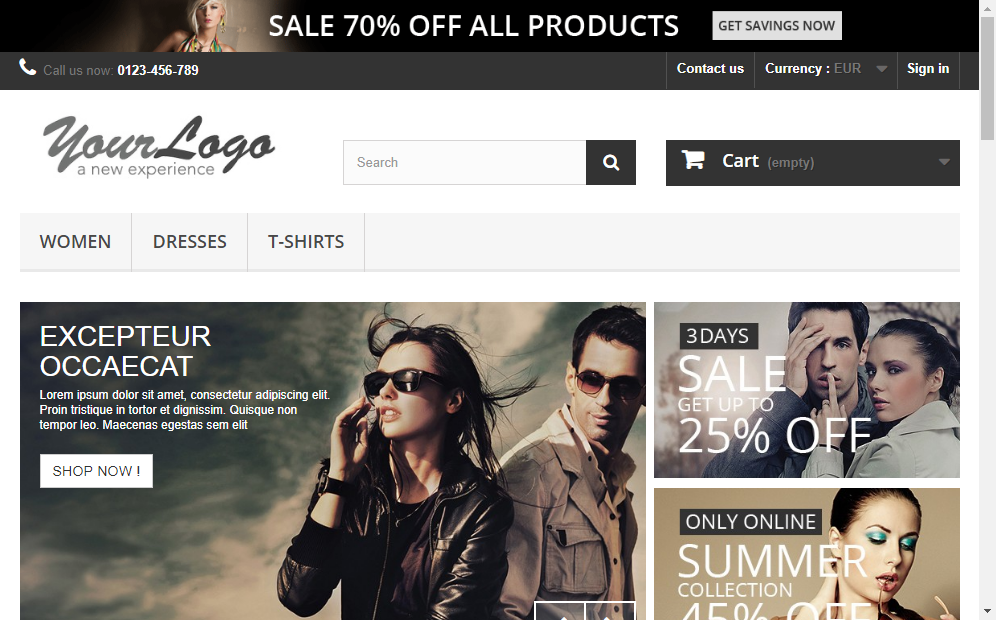
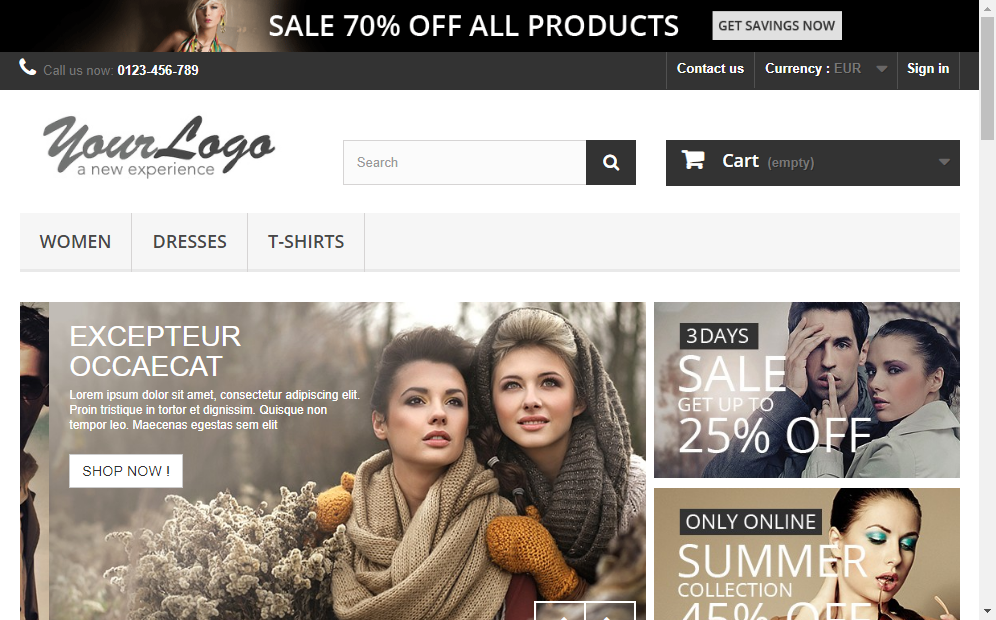
Add failed test screenshots from https://travis-ci.org/wirecard/prestashop-ee/builds/536724530

Changed region(s): [[0.0, 0.4597, 0.6536, 1.0]]

diff --git a/prestashop-ee-1.6.1.24/API-WDCEE-TEST/2019-05-24/checkCreditCard3DSFunctionalityHappyPath.try.purchaseCheck.ui_test.fail.html b/prestashop-ee-1.6.1.24/API-WDCEE-TEST/2019-05-24/checkCreditCard3DSFunctionalityHappyPath.try.purchaseCheck.ui_test.fail.html
@@ -37,7 +37,7 @@
 																<link rel="stylesheet" href="/themes/default-bootstrap/css/modules/homeslider/homeslider.css" type="text/css" media="all">
 																<link rel="stylesheet" href="/themes/default-bootstrap/css/modules/homefeatured/homefeatured.css" type="text/css" media="all">
 																<link rel="stylesheet" href="/modules/themeconfigurator/css/hooks.css" type="text/css" media="all">
-														<script src="https://connect.facebook.net/en_US/all.js?hash=3c01356c770e49712d2cdfbfd95d3972&amp;ua=modern_es6" async="" crossorigin="anonymous"></script><script id="facebook-jssdk" src="//connect.facebook.net/en_US/all.js#xfbml=1&amp;appId=334341610034299"></script><script type="text/javascript">
+														<script src="https://connect.facebook.net/en_US/all.js?hash=fb3c721495e39f9d02d91895cddee1ae&amp;ua=modern_es6" async="" crossorigin="anonymous"></script><script id="facebook-jssdk" src="//connect.facebook.net/en_US/all.js#xfbml=1&amp;appId=334341610034299"></script><script type="text/javascript">
 var CUSTOMIZE_TEXTFIELD = 1;
 var FancyboxI18nClose = 'Close';
 var FancyboxI18nNext = 'Next';
@@ -47,6 +47,8 @@ var ajaxsearch = true;
 var baseDir = 'http://localhost:8080/';
 var baseUri = 'http://localhost:8080/index.php';
 var blocksearch_type = 'top';
+var comparator_max_item = 3;
+var comparedProductsIds = [];
 var contentOnly = false;
 var currency = {"id":1,"name":"Euro","iso_code":"EUR","iso_code_num":"978","sign":"\u20ac","blank":"1","conversion_rate":"1.000000","deleted":"0","format":"2","decimals":"1","active":"1","prefix":"","suffix":" \u20ac","id_shop_list":null,"force_id":false};
 var currencyBlank = 1;
@@ -58,7 +60,7 @@ var delete_txt = 'Delete';
 var displayList = false;
 var freeProductTranslation = 'Free!';
 var freeShippingTranslation = 'Free shipping!';
-var generated_date = 1558693945;
+var generated_date = 1558696837;
 var hasDeliveryAddress = false;
 var highDPI = false;
 var homeslider_loop = 1;
@@ -71,6 +73,8 @@ var instantsearch = false;
 var isGuest = 0;
 var isLogged = 0;
 var isMobile = false;
+var max_item = 'You cannot add more than 3 product(s) to the product comparison';
+var min_item = 'Please select at least one product';
 var page_name = 'index';
 var placeholder_blocknewsletter = 'Enter your e-mail';
 var priceDisplayMethod = 0;
@@ -79,9 +83,9 @@ var quickView = true;
 var removingLinkText = 'remove this product from my cart';
 var roundMode = 2;
 var search_url = 'http://localhost:8080/index.php?controller=search';
-var static_token = '1ebb8cdd95dc4ea71ddeeb2e1645fd23';
+var static_token = '63e7f963977e4518e2ff28f13fdd50a6';
 var toBeDetermined = 'To be determined';
-var token = 'be7e6e960042cebf35e28db2ea781fc0';
+var token = '99f01f2d5d3fd2e3ee4290e122383037';
 var usingSecureMode = false;
 </script>
 
@@ -338,7 +342,7 @@ var usingSecureMode = false;
 										<div id="slider_row" class="row">
 																			<div id="top_column" class="center_column col-xs-12 col-sm-12"><!-- Module HomeSlider -->
     		<div id="homepage-slider" class="col-xs-8">
-						<div class="bx-wrapper" style="max-width: 779px; margin: 0px auto;"><div class="bx-viewport" style="width: 100%; overflow: hidden; position: relative; height: 361px;"><ul id="homeslider" style="max-height: 448px; width: 515%; position: relative; left: -936.146px;"><li class="homeslider-container bx-clone" style="float: left; list-style: none; position: relative; width: 627px;">
+						<div class="bx-wrapper" style="max-width: 779px; margin: 0px auto;"><div class="bx-viewport" style="width: 100%; overflow: hidden; position: relative; height: 361px;"><ul id="homeslider" style="max-height: 448px; width: 515%; position: relative; left: -1254px;"><li class="homeslider-container bx-clone" style="float: left; list-style: none; position: relative; width: 627px;">
 							<a href="http://www.prestashop.com/?utm_source=back-office&amp;utm_medium=v16_homeslider&amp;utm_campaign=back-office-EN&amp;utm_content=download" title="sample-3">
 								<img src="http://localhost:8080/modules/homeslider/images/sample-3.jpg" width="779" height="448" alt="sample-3">
 							</a>
@@ -472,7 +476,7 @@ var usingSecureMode = false;
 							
 											</div>
 										<div class="button-container">
-																													<a class="button ajax_add_to_cart_button btn btn-default" href="http://localhost:8080/index.php?controller=cart&amp;add=1&amp;id_product=7&amp;ipa=34&amp;token=1ebb8cdd95dc4ea71ddeeb2e1645fd23" rel="nofollow" title="Add to cart" data-id-product-attribute="34" data-id-product="7" data-minimal_quantity="1">
+																													<a class="button ajax_add_to_cart_button btn btn-default" href="http://localhost:8080/index.php?controller=cart&amp;add=1&amp;id_product=7&amp;ipa=34&amp;token=63e7f963977e4518e2ff28f13fdd50a6" rel="nofollow" title="Add to cart" data-id-product-attribute="34" data-id-product="7" data-minimal_quantity="1">
 									<span>Add to cart</span>
 								</a>
 																			<a class="button lnk_view btn btn-default" href="http://localhost:8080/index.php?id_product=7&amp;controller=product" title="View">
@@ -541,7 +545,7 @@ var usingSecureMode = false;
 							
 											</div>
 										<div class="button-container">
-																													<a class="button ajax_add_to_cart_button btn btn-default" href="http://localhost:8080/index.php?controller=cart&amp;add=1&amp;id_product=6&amp;ipa=31&amp;token=1ebb8cdd95dc4ea71ddeeb2e1645fd23" rel="nofollow" title="Add to cart" data-id-product-attribute="31" data-id-product="6" data-minimal_quantity="1">
+																													<a class="button ajax_add_to_cart_button btn btn-default" href="http://localhost:8080/index.php?controller=cart&amp;add=1&amp;id_product=6&amp;ipa=31&amp;token=63e7f963977e4518e2ff28f13fdd50a6" rel="nofollow" title="Add to cart" data-id-product-attribute="31" data-id-product="6" data-minimal_quantity="1">
 									<span>Add to cart</span>
 								</a>
 																			<a class="button lnk_view btn btn-default" href="http://localhost:8080/index.php?id_product=6&amp;controller=product" title="View">
@@ -620,7 +624,7 @@ var usingSecureMode = false;
 							
 											</div>
 										<div class="button-container">
-																													<a class="button ajax_add_to_cart_button btn btn-default" href="http://localhost:8080/index.php?controller=cart&amp;add=1&amp;id_product=5&amp;ipa=19&amp;token=1ebb8cdd95dc4ea71ddeeb2e1645fd23" rel="nofollow" title="Add to cart" data-id-product-attribute="19" data-id-product="5" data-minimal_quantity="1">
+																													<a class="button ajax_add_to_cart_button btn btn-default" href="http://localhost:8080/index.php?controller=cart&amp;add=1&amp;id_product=5&amp;ipa=19&amp;token=63e7f963977e4518e2ff28f13fdd50a6" rel="nofollow" title="Add to cart" data-id-product-attribute="19" data-id-product="5" data-minimal_quantity="1">
 									<span>Add to cart</span>
 								</a>
 																			<a class="button lnk_view btn btn-default" href="http://localhost:8080/index.php?id_product=5&amp;controller=product" title="View">
@@ -689,7 +693,7 @@ var usingSecureMode = false;
 							
 											</div>
 										<div class="button-container">
-																													<a class="button ajax_add_to_cart_button btn btn-default" href="http://localhost:8080/index.php?controller=cart&amp;add=1&amp;id_product=4&amp;ipa=16&amp;token=1ebb8cdd95dc4ea71ddeeb2e1645fd23" rel="nofollow" title="Add to cart" data-id-product-attribute="16" data-id-product="4" data-minimal_quantity="1">
+																													<a class="button ajax_add_to_cart_button btn btn-default" href="http://localhost:8080/index.php?controller=cart&amp;add=1&amp;id_product=4&amp;ipa=16&amp;token=63e7f963977e4518e2ff28f13fdd50a6" rel="nofollow" title="Add to cart" data-id-product-attribute="16" data-id-product="4" data-minimal_quantity="1">
 									<span>Add to cart</span>
 								</a>
 																			<a class="button lnk_view btn btn-default" href="http://localhost:8080/index.php?id_product=4&amp;controller=product" title="View">
@@ -757,7 +761,7 @@ var usingSecureMode = false;
 							
 											</div>
 										<div class="button-container">
-																													<a class="button ajax_add_to_cart_button btn btn-default" href="http://localhost:8080/index.php?controller=cart&amp;add=1&amp;id_product=3&amp;ipa=13&amp;token=1ebb8cdd95dc4ea71ddeeb2e1645fd23" rel="nofollow" title="Add to cart" data-id-product-attribute="13" data-id-product="3" data-minimal_quantity="1">
+																													<a class="button ajax_add_to_cart_button btn btn-default" href="http://localhost:8080/index.php?controller=cart&amp;add=1&amp;id_product=3&amp;ipa=13&amp;token=63e7f963977e4518e2ff28f13fdd50a6" rel="nofollow" title="Add to cart" data-id-product-attribute="13" data-id-product="3" data-minimal_quantity="1">
 									<span>Add to cart</span>
 								</a>
 																			<a class="button lnk_view btn btn-default" href="http://localhost:8080/index.php?id_product=3&amp;controller=product" title="View">
@@ -825,7 +829,7 @@ var usingSecureMode = false;
 							
 											</div>
 										<div class="button-container">
-																													<a class="button ajax_add_to_cart_button btn btn-default" href="http://localhost:8080/index.php?controller=cart&amp;add=1&amp;id_product=2&amp;ipa=7&amp;token=1ebb8cdd95dc4ea71ddeeb2e1645fd23" rel="nofollow" title="Add to cart" data-id-product-attribute="7" data-id-product="2" data-minimal_quantity="1">
+																													<a class="button ajax_add_to_cart_button btn btn-default" href="http://localhost:8080/index.php?controller=cart&amp;add=1&amp;id_product=2&amp;ipa=7&amp;token=63e7f963977e4518e2ff28f13fdd50a6" rel="nofollow" title="Add to cart" data-id-product-attribute="7" data-id-product="2" data-minimal_quantity="1">
 									<span>Add to cart</span>
 								</a>
 																			<a class="button lnk_view btn btn-default" href="http://localhost:8080/index.php?id_product=2&amp;controller=product" title="View">
@@ -893,7 +897,7 @@ var usingSecureMode = false;
 							
 											</div>
 										<div class="button-container">
-																													<a class="button ajax_add_to_cart_button btn btn-default" href="http://localhost:8080/index.php?controller=cart&amp;add=1&amp;id_product=1&amp;ipa=1&amp;token=1ebb8cdd95dc4ea71ddeeb2e1645fd23" rel="nofollow" title="Add to cart" data-id-product-attribute="1" data-id-product="1" data-minimal_quantity="1">
+																													<a class="button ajax_add_to_cart_button btn btn-default" href="http://localhost:8080/index.php?controller=cart&amp;add=1&amp;id_product=1&amp;ipa=1&amp;token=63e7f963977e4518e2ff28f13fdd50a6" rel="nofollow" title="Add to cart" data-id-product-attribute="1" data-id-product="1" data-minimal_quantity="1">
 									<span>Add to cart</span>
 								</a>
 																			<a class="button lnk_view btn btn-default" href="http://localhost:8080/index.php?id_product=1&amp;controller=product" title="View">
@@ -973,7 +977,7 @@ var usingSecureMode = false;
 							
 											</div>
 										<div class="button-container">
-																													<a class="button ajax_add_to_cart_button btn btn-default" href="http://localhost:8080/index.php?controller=cart&amp;add=1&amp;id_product=1&amp;ipa=1&amp;token=1ebb8cdd95dc4ea71ddeeb2e1645fd23" rel="nofollow" title="Add to cart" data-id-product-attribute="1" data-id-product="1" data-minimal_quantity="1">
+																													<a class="button ajax_add_to_cart_button btn btn-default" href="http://localhost:8080/index.php?controller=cart&amp;add=1&amp;id_product=1&amp;ipa=1&amp;token=63e7f963977e4518e2ff28f13fdd50a6" rel="nofollow" title="Add to cart" data-id-product-attribute="1" data-id-product="1" data-minimal_quantity="1">
 									<span>Add to cart</span>
 								</a>
 																			<a class="button lnk_view btn btn-default" href="http://localhost:8080/index.php?id_product=1&amp;controller=product" title="View">
@@ -1041,7 +1045,7 @@ var usingSecureMode = false;
 							
 											</div>
 										<div class="button-container">
-																													<a class="button ajax_add_to_cart_button btn btn-default" href="http://localhost:8080/index.php?controller=cart&amp;add=1&amp;id_product=2&amp;ipa=7&amp;token=1ebb8cdd95dc4ea71ddeeb2e1645fd23" rel="nofollow" title="Add to cart" data-id-product-attribute="7" data-id-product="2" data-minimal_quantity="1">
+																													<a class="button ajax_add_to_cart_button btn btn-default" href="http://localhost:8080/index.php?controller=cart&amp;add=1&amp;id_product=2&amp;ipa=7&amp;token=63e7f963977e4518e2ff28f13fdd50a6" rel="nofollow" title="Add to cart" data-id-product-attribute="7" data-id-product="2" data-minimal_quantity="1">
 									<span>Add to cart</span>
 								</a>
 																			<a class="button lnk_view btn btn-default" href="http://localhost:8080/index.php?id_product=2&amp;controller=product" title="View">
@@ -1109,7 +1113,7 @@ var usingSecureMode = false;
 							
 											</div>
 										<div class="button-container">
-																													<a class="button ajax_add_to_cart_button btn btn-default" href="http://localhost:8080/index.php?controller=cart&amp;add=1&amp;id_product=3&amp;ipa=13&amp;token=1ebb8cdd95dc4ea71ddeeb2e1645fd23" rel="nofollow" title="Add to cart" data-id-product-attribute="13" data-id-product="3" data-minimal_quantity="1">
+																													<a class="button ajax_add_to_cart_button btn btn-default" href="http://localhost:8080/index.php?controller=cart&amp;add=1&amp;id_product=3&amp;ipa=13&amp;token=63e7f963977e4518e2ff28f13fdd50a6" rel="nofollow" title="Add to cart" data-id-product-attribute="13" data-id-product="3" data-minimal_quantity="1">
 									<span>Add to cart</span>
 								</a>
 																			<a class="button lnk_view btn btn-default" href="http://localhost:8080/index.php?id_product=3&amp;controller=product" title="View">
@@ -1177,7 +1181,7 @@ var usingSecureMode = false;
 							
 											</div>
 										<div class="button-container">
-																													<a class="button ajax_add_to_cart_button btn btn-default" href="http://localhost:8080/index.php?controller=cart&amp;add=1&amp;id_product=4&amp;ipa=16&amp;token=1ebb8cdd95dc4ea71ddeeb2e1645fd23" rel="nofollow" title="Add to cart" data-id-product-attribute="16" data-id-product="4" data-minimal_quantity="1">
+																													<a class="button ajax_add_to_cart_button btn btn-default" href="http://localhost:8080/index.php?controller=cart&amp;add=1&amp;id_product=4&amp;ipa=16&amp;token=63e7f963977e4518e2ff28f13fdd50a6" rel="nofollow" title="Add to cart" data-id-product-attribute="16" data-id-product="4" data-minimal_quantity="1">
 									<span>Add to cart</span>
 								</a>
 																			<a class="button lnk_view btn btn-default" href="http://localhost:8080/index.php?id_product=4&amp;controller=product" title="View">
@@ -1256,7 +1260,7 @@ var usingSecureMode = false;
 							
 											</div>
 										<div class="button-container">
-																													<a class="button ajax_add_to_cart_button btn btn-default" href="http://localhost:8080/index.php?controller=cart&amp;add=1&amp;id_product=5&amp;ipa=19&amp;token=1ebb8cdd95dc4ea71ddeeb2e1645fd23" rel="nofollow" title="Add to cart" data-id-product-attribute="19" data-id-product="5" data-minimal_quantity="1">
+																													<a class="button ajax_add_to_cart_button btn btn-default" href="http://localhost:8080/index.php?controller=cart&amp;add=1&amp;id_product=5&amp;ipa=19&amp;token=63e7f963977e4518e2ff28f13fdd50a6" rel="nofollow" title="Add to cart" data-id-product-attribute="19" data-id-product="5" data-minimal_quantity="1">
 									<span>Add to cart</span>
 								</a>
 																			<a class="button lnk_view btn btn-default" href="http://localhost:8080/index.php?id_product=5&amp;controller=product" title="View">
@@ -1325,7 +1329,7 @@ var usingSecureMode = false;
 							
 											</div>
 										<div class="button-container">
-																													<a class="button ajax_add_to_cart_button btn btn-default" href="http://localhost:8080/index.php?controller=cart&amp;add=1&amp;id_product=6&amp;ipa=31&amp;token=1ebb8cdd95dc4ea71ddeeb2e1645fd23" rel="nofollow" title="Add to cart" data-id-product-attribute="31" data-id-product="6" data-minimal_quantity="1">
+																													<a class="button ajax_add_to_cart_button btn btn-default" href="http://localhost:8080/index.php?controller=cart&amp;add=1&amp;id_product=6&amp;ipa=31&amp;token=63e7f963977e4518e2ff28f13fdd50a6" rel="nofollow" title="Add to cart" data-id-product-attribute="31" data-id-product="6" data-minimal_quantity="1">
 									<span>Add to cart</span>
 								</a>
 																			<a class="button lnk_view btn btn-default" href="http://localhost:8080/index.php?id_product=6&amp;controller=product" title="View">
@@ -1404,7 +1408,7 @@ var usingSecureMode = false;
 							
 											</div>
 										<div class="button-container">
-																													<a class="button ajax_add_to_cart_button btn btn-default" href="http://localhost:8080/index.php?controller=cart&amp;add=1&amp;id_product=7&amp;ipa=34&amp;token=1ebb8cdd95dc4ea71ddeeb2e1645fd23" rel="nofollow" title="Add to cart" data-id-product-attribute="34" data-id-product="7" data-minimal_quantity="1">
+																													<a class="button ajax_add_to_cart_button btn btn-default" href="http://localhost:8080/index.php?controller=cart&amp;add=1&amp;id_product=7&amp;ipa=34&amp;token=63e7f963977e4518e2ff28f13fdd50a6" rel="nofollow" title="Add to cart" data-id-product-attribute="34" data-id-product="7" data-minimal_quantity="1">
 									<span>Add to cart</span>
 								</a>
 																			<a class="button lnk_view btn btn-default" href="http://localhost:8080/index.php?id_product=7&amp;controller=product" title="View">
@@ -1496,7 +1500,7 @@ var usingSecureMode = false;
 							
 											</div>
 										<div class="button-container">
-																													<a class="button ajax_add_to_cart_button btn btn-default" href="http://localhost:8080/index.php?controller=cart&amp;add=1&amp;id_product=5&amp;ipa=19&amp;token=1ebb8cdd95dc4ea71ddeeb2e1645fd23" rel="nofollow" title="Add to cart" data-id-product-attribute="19" data-id-product="5" data-minimal_quantity="1">
+																													<a class="button ajax_add_to_cart_button btn btn-default" href="http://localhost:8080/index.php?controller=cart&amp;add=1&amp;id_product=5&amp;ipa=19&amp;token=63e7f963977e4518e2ff28f13fdd50a6" rel="nofollow" title="Add to cart" data-id-product-attribute="19" data-id-product="5" data-minimal_quantity="1">
 									<span>Add to cart</span>
 								</a>
 																			<a class="button lnk_view btn btn-default" href="http://localhost:8080/index.php?id_product=5&amp;controller=product" title="View">
@@ -1576,7 +1580,7 @@ var usingSecureMode = false;
 							
 											</div>
 										<div class="button-container">
-																													<a class="button ajax_add_to_cart_button btn btn-default" href="http://localhost:8080/index.php?controller=cart&amp;add=1&amp;id_product=7&amp;ipa=34&amp;token=1ebb8cdd95dc4ea71ddeeb2e1645fd23" rel="nofollow" title="Add to cart" data-id-product-attribute="34" data-id-product="7" data-minimal_quantity="1">
+																													<a class="button ajax_add_to_cart_button btn btn-default" href="http://localhost:8080/index.php?controller=cart&amp;add=1&amp;id_product=7&amp;ipa=34&amp;token=63e7f963977e4518e2ff28f13fdd50a6" rel="nofollow" title="Add to cart" data-id-product-attribute="34" data-id-product="7" data-minimal_quantity="1">
 									<span>Add to cart</span>
 								</a>
 																			<a class="button lnk_view btn btn-default" href="http://localhost:8080/index.php?id_product=7&amp;controller=product" title="View">
@@ -1657,7 +1661,7 @@ var usingSecureMode = false;
 							
 											</div>
 										<div class="button-container">
-																													<a class="button ajax_add_to_cart_button btn btn-default" href="http://localhost:8080/index.php?controller=cart&amp;add=1&amp;id_product=2&amp;ipa=7&amp;token=1ebb8cdd95dc4ea71ddeeb2e1645fd23" rel="nofollow" title="Add to cart" data-id-product-attribute="7" data-id-product="2" data-minimal_quantity="1">
+																													<a class="button ajax_add_to_cart_button btn btn-default" href="http://localhost:8080/index.php?controller=cart&amp;add=1&amp;id_product=2&amp;ipa=7&amp;token=63e7f963977e4518e2ff28f13fdd50a6" rel="nofollow" title="Add to cart" data-id-product-attribute="7" data-id-product="2" data-minimal_quantity="1">
 									<span>Add to cart</span>
 								</a>
 																			<a class="button lnk_view btn btn-default" href="http://localhost:8080/index.php?id_product=2&amp;controller=product" title="View">
@@ -1725,7 +1729,7 @@ var usingSecureMode = false;
 							
 											</div>
 										<div class="button-container">
-																													<a class="button ajax_add_to_cart_button btn btn-default" href="http://localhost:8080/index.php?controller=cart&amp;add=1&amp;id_product=1&amp;ipa=1&amp;token=1ebb8cdd95dc4ea71ddeeb2e1645fd23" rel="nofollow" title="Add to cart" data-id-product-attribute="1" data-id-product="1" data-minimal_quantity="1">
+																													<a class="button ajax_add_to_cart_button btn btn-default" href="http://localhost:8080/index.php?controller=cart&amp;add=1&amp;id_product=1&amp;ipa=1&amp;token=63e7f963977e4518e2ff28f13fdd50a6" rel="nofollow" title="Add to cart" data-id-product-attribute="1" data-id-product="1" data-minimal_quantity="1">
 									<span>Add to cart</span>
 								</a>
 																			<a class="button lnk_view btn btn-default" href="http://localhost:8080/index.php?id_product=1&amp;controller=product" title="View">
@@ -1793,7 +1797,7 @@ var usingSecureMode = false;
 							
 											</div>
 										<div class="button-container">
-																													<a class="button ajax_add_to_cart_button btn btn-default" href="http://localhost:8080/index.php?controller=cart&amp;add=1&amp;id_product=3&amp;ipa=13&amp;token=1ebb8cdd95dc4ea71ddeeb2e1645fd23" rel="nofollow" title="Add to cart" data-id-product-attribute="13" data-id-product="3" data-minimal_quantity="1">
+																													<a class="button ajax_add_to_cart_button btn btn-default" href="http://localhost:8080/index.php?controller=cart&amp;add=1&amp;id_product=3&amp;ipa=13&amp;token=63e7f963977e4518e2ff28f13fdd50a6" rel="nofollow" title="Add to cart" data-id-product-attribute="13" data-id-product="3" data-minimal_quantity="1">
 									<span>Add to cart</span>
 								</a>
 																			<a class="button lnk_view btn btn-default" href="http://localhost:8080/index.php?id_product=3&amp;controller=product" title="View">
@@ -1861,7 +1865,7 @@ var usingSecureMode = false;
 							
 											</div>
 										<div class="button-container">
-																													<a class="button ajax_add_to_cart_button btn btn-default" href="http://localhost:8080/index.php?controller=cart&amp;add=1&amp;id_product=6&amp;ipa=31&amp;token=1ebb8cdd95dc4ea71ddeeb2e1645fd23" rel="nofollow" title="Add to cart" data-id-product-attribute="31" data-id-product="6" data-minimal_quantity="1">
+																													<a class="button ajax_add_to_cart_button btn btn-default" href="http://localhost:8080/index.php?controller=cart&amp;add=1&amp;id_product=6&amp;ipa=31&amp;token=63e7f963977e4518e2ff28f13fdd50a6" rel="nofollow" title="Add to cart" data-id-product-attribute="31" data-id-product="6" data-minimal_quantity="1">
 									<span>Add to cart</span>
 								</a>
 																			<a class="button lnk_view btn btn-default" href="http://localhost:8080/index.php?id_product=6&amp;controller=product" title="View">
@@ -1940,7 +1944,7 @@ var usingSecureMode = false;
 							
 											</div>
 										<div class="button-container">
-																													<a class="button ajax_add_to_cart_button btn btn-default" href="http://localhost:8080/index.php?controller=cart&amp;add=1&amp;id_product=7&amp;ipa=34&amp;token=1ebb8cdd95dc4ea71ddeeb2e1645fd23" rel="nofollow" title="Add to cart" data-id-product-attribute="34" data-id-product="7" data-minimal_quantity="1">
+																													<a class="button ajax_add_to_cart_button btn btn-default" href="http://localhost:8080/index.php?controller=cart&amp;add=1&amp;id_product=7&amp;ipa=34&amp;token=63e7f963977e4518e2ff28f13fdd50a6" rel="nofollow" title="Add to cart" data-id-product-attribute="34" data-id-product="7" data-minimal_quantity="1">
 									<span>Add to cart</span>
 								</a>
 																			<a class="button lnk_view btn btn-default" href="http://localhost:8080/index.php?id_product=7&amp;controller=product" title="View">
@@ -2020,7 +2024,7 @@ var usingSecureMode = false;
 							
 											</div>
 										<div class="button-container">
-																													<a class="button ajax_add_to_cart_button btn btn-default" href="http://localhost:8080/index.php?controller=cart&amp;add=1&amp;id_product=5&amp;ipa=19&amp;token=1ebb8cdd95dc4ea71ddeeb2e1645fd23" rel="nofollow" title="Add to cart" data-id-product-attribute="19" data-id-product="5" data-minimal_quantity="1">
+																													<a class="button ajax_add_to_cart_button btn btn-default" href="http://localhost:8080/index.php?controller=cart&amp;add=1&amp;id_product=5&amp;ipa=19&amp;token=63e7f963977e4518e2ff28f13fdd50a6" rel="nofollow" title="Add to cart" data-id-product-attribute="19" data-id-product="5" data-minimal_quantity="1">
 									<span>Add to cart</span>
 								</a>
 																			<a class="button lnk_view btn btn-default" href="http://localhost:8080/index.php?id_product=5&amp;controller=product" title="View">
@@ -2073,11 +2077,11 @@ var usingSecureMode = false;
 									</li>
 			</ul>
 </div>
-<div id="fb-root" class=" fb_reset"><div style="position: absolute; top: -10000px; width: 0px; height: 0px;"><div><iframe name="fec107e8470f38" frameborder="0" allowtransparency="true" allowfullscreen="true" scrolling="no" allow="encrypted-media" src="https://www.facebook.com/connect/ping?client_id=334341610034299&amp;domain=localhost&amp;origin=1&amp;redirect_uri=https%3A%2F%2Fstaticxx.facebook.com%2Fconnect%2Fxd_arbiter.php%3Fversion%3D44%23cb%3Df17cd7ef1db69dc%26domain%3Dlocalhost%26origin%3Dhttp%253A%252F%252Flocalhost%253A8080%252Ff179216e5f55e68%26relation%3Dparent&amp;response_type=token%2Csigned_request&amp;sdk=joey" style="display: none;"></iframe></div><div><iframe name="fb_xdm_frame_https" frameborder="0" allowtransparency="true" allowfullscreen="true" scrolling="no" allow="encrypted-media" id="fb_xdm_frame_https" aria-hidden="true" title="Facebook Cross Domain Communication Frame" tabindex="-1" src="https://staticxx.facebook.com/connect/xd_arbiter.php?version=44#channel=f179216e5f55e68&amp;origin=http%3A%2F%2Flocalhost%3A8080" style="border: none;"></iframe></div></div></div>
+<div id="fb-root" class=" fb_reset"><div style="position: absolute; top: -10000px; width: 0px; height: 0px;"><div><iframe name="f1d065702317a5" frameborder="0" allowtransparency="true" allowfullscreen="true" scrolling="no" allow="encrypted-media" src="https://www.facebook.com/connect/ping?client_id=334341610034299&amp;domain=localhost&amp;origin=1&amp;redirect_uri=https%3A%2F%2Fstaticxx.facebook.com%2Fconnect%2Fxd_arbiter.php%3Fversion%3D44%23cb%3Df2f9d24fa7ff268%26domain%3Dlocalhost%26origin%3Dhttp%253A%252F%252Flocalhost%253A8080%252Ff38282263b4b4b%26relation%3Dparent&amp;response_type=token%2Csigned_request&amp;sdk=joey" style="display: none;"></iframe></div><div><iframe name="fb_xdm_frame_https" frameborder="0" allowtransparency="true" allowfullscreen="true" scrolling="no" allow="encrypted-media" id="fb_xdm_frame_https" aria-hidden="true" title="Facebook Cross Domain Communication Frame" tabindex="-1" src="https://staticxx.facebook.com/connect/xd_arbiter.php?version=44#channel=f38282263b4b4b&amp;origin=http%3A%2F%2Flocalhost%3A8080" style="border: none;"></iframe></div></div></div>
 <div id="facebook_block" class="col-xs-4">
 	<h4>Follow us on Facebook</h4>
 	<div class="facebook-fanbox">
-		<div class="fb-like-box fb_iframe_widget" data-href="https://www.facebook.com/prestashop" data-colorscheme="light" data-show-faces="true" data-header="false" data-stream="false" data-show-border="false" fb-xfbml-state="rendered" fb-iframe-plugin-query="app_id=334341610034299&amp;color_scheme=light&amp;container_width=253&amp;header=false&amp;href=https%3A%2F%2Fwww.facebook.com%2Fprestashop&amp;locale=en_US&amp;sdk=joey&amp;show_border=false&amp;show_faces=true&amp;stream=false"><span style="vertical-align: bottom; width: 0px; height: 0px;"><iframe name="f223ec7fd539e98" width="1000px" height="1000px" frameborder="0" allowtransparency="true" allowfullscreen="true" scrolling="no" allow="encrypted-media" title="fb:like_box Facebook Social Plugin" src="https://www.facebook.com/plugins/like_box.php?app_id=334341610034299&amp;channel=https%3A%2F%2Fstaticxx.facebook.com%2Fconnect%2Fxd_arbiter.php%3Fversion%3D44%23cb%3Df12560116b4e914%26domain%3Dlocalhost%26origin%3Dhttp%253A%252F%252Flocalhost%253A8080%252Ff179216e5f55e68%26relation%3Dparent.parent&amp;color_scheme=light&amp;container_width=253&amp;header=false&amp;href=https%3A%2F%2Fwww.facebook.com%2Fprestashop&amp;locale=en_US&amp;sdk=joey&amp;show_border=false&amp;show_faces=true&amp;stream=false" style="border: none; visibility: visible; width: 0px; height: 0px;" class=""></iframe></span></div>
+		<div class="fb-like-box fb_iframe_widget" data-href="https://www.facebook.com/prestashop" data-colorscheme="light" data-show-faces="true" data-header="false" data-stream="false" data-show-border="false" fb-xfbml-state="rendered" fb-iframe-plugin-query="app_id=334341610034299&amp;color_scheme=light&amp;container_width=253&amp;header=false&amp;href=https%3A%2F%2Fwww.facebook.com%2Fprestashop&amp;locale=en_US&amp;sdk=joey&amp;show_border=false&amp;show_faces=true&amp;stream=false"><span style="vertical-align: bottom; width: 0px; height: 0px;"><iframe name="f25642af549b5ec" width="1000px" height="1000px" frameborder="0" allowtransparency="true" allowfullscreen="true" scrolling="no" allow="encrypted-media" title="fb:like_box Facebook Social Plugin" src="https://www.facebook.com/plugins/like_box.php?app_id=334341610034299&amp;channel=https%3A%2F%2Fstaticxx.facebook.com%2Fconnect%2Fxd_arbiter.php%3Fversion%3D44%23cb%3Df2c6a8e0bb84a4%26domain%3Dlocalhost%26origin%3Dhttp%253A%252F%252Flocalhost%253A8080%252Ff38282263b4b4b%26relation%3Dparent.parent&amp;color_scheme=light&amp;container_width=253&amp;header=false&amp;href=https%3A%2F%2Fwww.facebook.com%2Fprestashop&amp;locale=en_US&amp;sdk=joey&amp;show_border=false&amp;show_faces=true&amp;stream=false" style="border: none; visibility: visible; width: 0px; height: 0px;" class=""></iframe></span></div>
 	</div>
 </div>
 <!-- MODULE Block cmsinfo -->

diff --git a/prestashop-ee-1.6.1.24/API-WDCEE-TEST/2019-05-24/report.html b/prestashop-ee-1.6.1.24/API-WDCEE-TEST/2019-05-24/report.html
@@ -215,7 +215,7 @@
      <li> <a href="#" title="Incomplete" onClick="toggleScenarios('scenarioIncomplete', this.parentElement)"><strong>I</strong> 0</a></li>
    </ul>
  <div class="layout">
- <h1>Codeception Results <small><span style="color: #e74c3c">FAILED</span> (3.5s)</small></h1>
+ <h1>Codeception Results <small><span style="color: #e74c3c">FAILED</span> (6.3s)</small></h1>
 
 
 
@@ -227,7 +227,7 @@
 </tr>   <tr class="scenarioRow scenarioFailed">
     <td>
      <p class="scenarioFailed" onclick="showHide('1', this)"><span class="toggle">+</span>
-          <span class="quiet">CheckCreditCard3DSFunctionalityHappyPath &raquo;</span> try purchaseCheck <span style="color: #34495e; font-size: 70%;">3.52s</span></p>
+          <span class="quiet">CheckCreditCard3DSFunctionalityHappyPath &raquo;</span> try purchaseCheck <span style="color: #34495e; font-size: 70%;">6.32s</span></p>
     </td>
    </tr>
    <tr class="scenarioRow scenarioFailed">
@@ -248,13 +248,13 @@
       </tr>
 
 <tr>
- <td class="stepName failedStep" ><p onclick="showHide('5ce7c83df1279', this)"><span class="toggle">+</span> Given i prepare checkout</p>
+ <td class="stepName failedStep" ><p onclick="showHide('5ce7d38d7194a', this)"><span class="toggle">+</span> Given i prepare checkout</p>
 
      </td>
 </tr>
 <tr>
  <td class="nostyle">
-  <table border="0" width="100%" class="substeps scenarioStepsTable" id="stepContainer5ce7c83df1279">
+  <table border="0" width="100%" class="substeps scenarioStepsTable" id="stepContainer5ce7d38d7194a">
           <tr>
        <td class="stepName ">&nbsp;&nbsp;&nbsp;&nbsp;<strong></strong></td>
       </tr>
